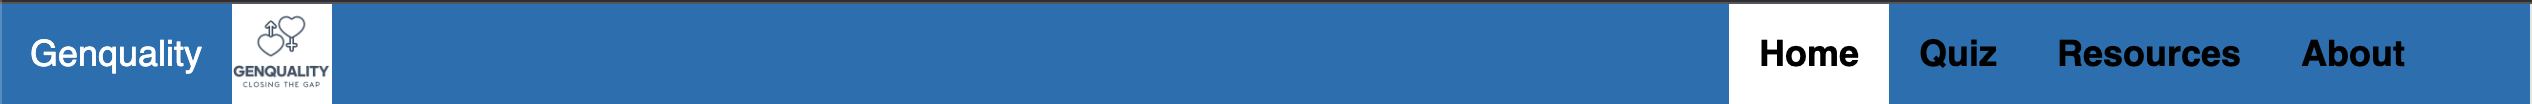
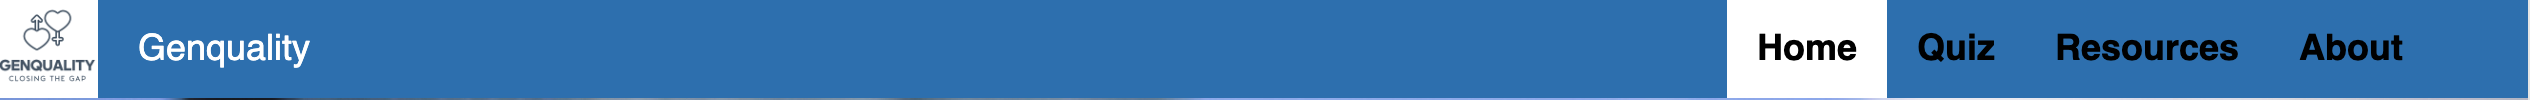
update nav-bar and add acknowledgements

Changed region(s): [[0.0, 0.0, 1.0, 1.0], [0.687, 0.33, 0.968, 0.66]]

diff --git a/README.md b/README.md
@@ -24,6 +24,7 @@
     - [Github cards](#github-cards)
     - [Images](#images-1)
     - [Version Control](#version-control)
+- [Acknowledgments](#acknowledgments)
 
 # Site Overview
 Genquality is a website built as a project for September's Hackathon with Code Institute, Deloitte and Trust in Soda. The theme given was 'Closing the gender gap' and so we decided a good way to tackle this issue was with an educational and enlightening quiz, along with some resources and information on how the user can make a difference.
@@ -228,13 +229,20 @@ Github cards were generated using [GitHub Dev Widget](https://github-devprofile-
 
 ### Images
 * Some images were taken from [pexels.com](pexels.com).
-* [This image](assets/images/gender-equality.jpg) by <a href="https://www.freepik.com/free-vector/gender-equality-concept_8944679.htm#query=gender%20equality&position=13&from_view=keyword">Freepik</a>
-* [This image](assets/images/equal.jpeg) by <a href="https://www.freepik.com/free-vector/gender-equality-concept-with-man-woman_8786149.htm#query=gender%20equality&position=17&from_view=keyword">Freepik</a>
-* [This image](assets/images/equality2.jpeg) by <a href="https://www.freepik.com/free-vector/gender-equality-illustration-style_8918398.htm#query=gender%20equality&position=4&from_view=keyword">Freepik</a>
+* Other images were taken from [freepik.com](freepik.com)
 
 <hr>
 
 ### Version Control
 *   Git was used as the version control software. Commands such as git add ., git status, git commit and git push were used to add, save, stage and push the code to the GitHub repository where the source code is stored.
 
-* [GitKraken](https://www.gitkraken.com/) was also used for git version control when working locally from my PC.
+* [GitKraken](https://www.gitkraken.com/) was also used for git version control when working locally from the PC.
+
+# Acknowledgments
+
+A big shout out to [Code Institute](https://codeinstitute.net/ie/) 
+                   [Deloitte](https://www2.deloitte.com/ie/en.html)
+                   [Trust in SODA](https://www.trustinsoda.com/)
+
+for providing us with the opportunity to Participate in this Hackathon.
+Also to our facilitator Chris, whom was immensely helpful during this project.
